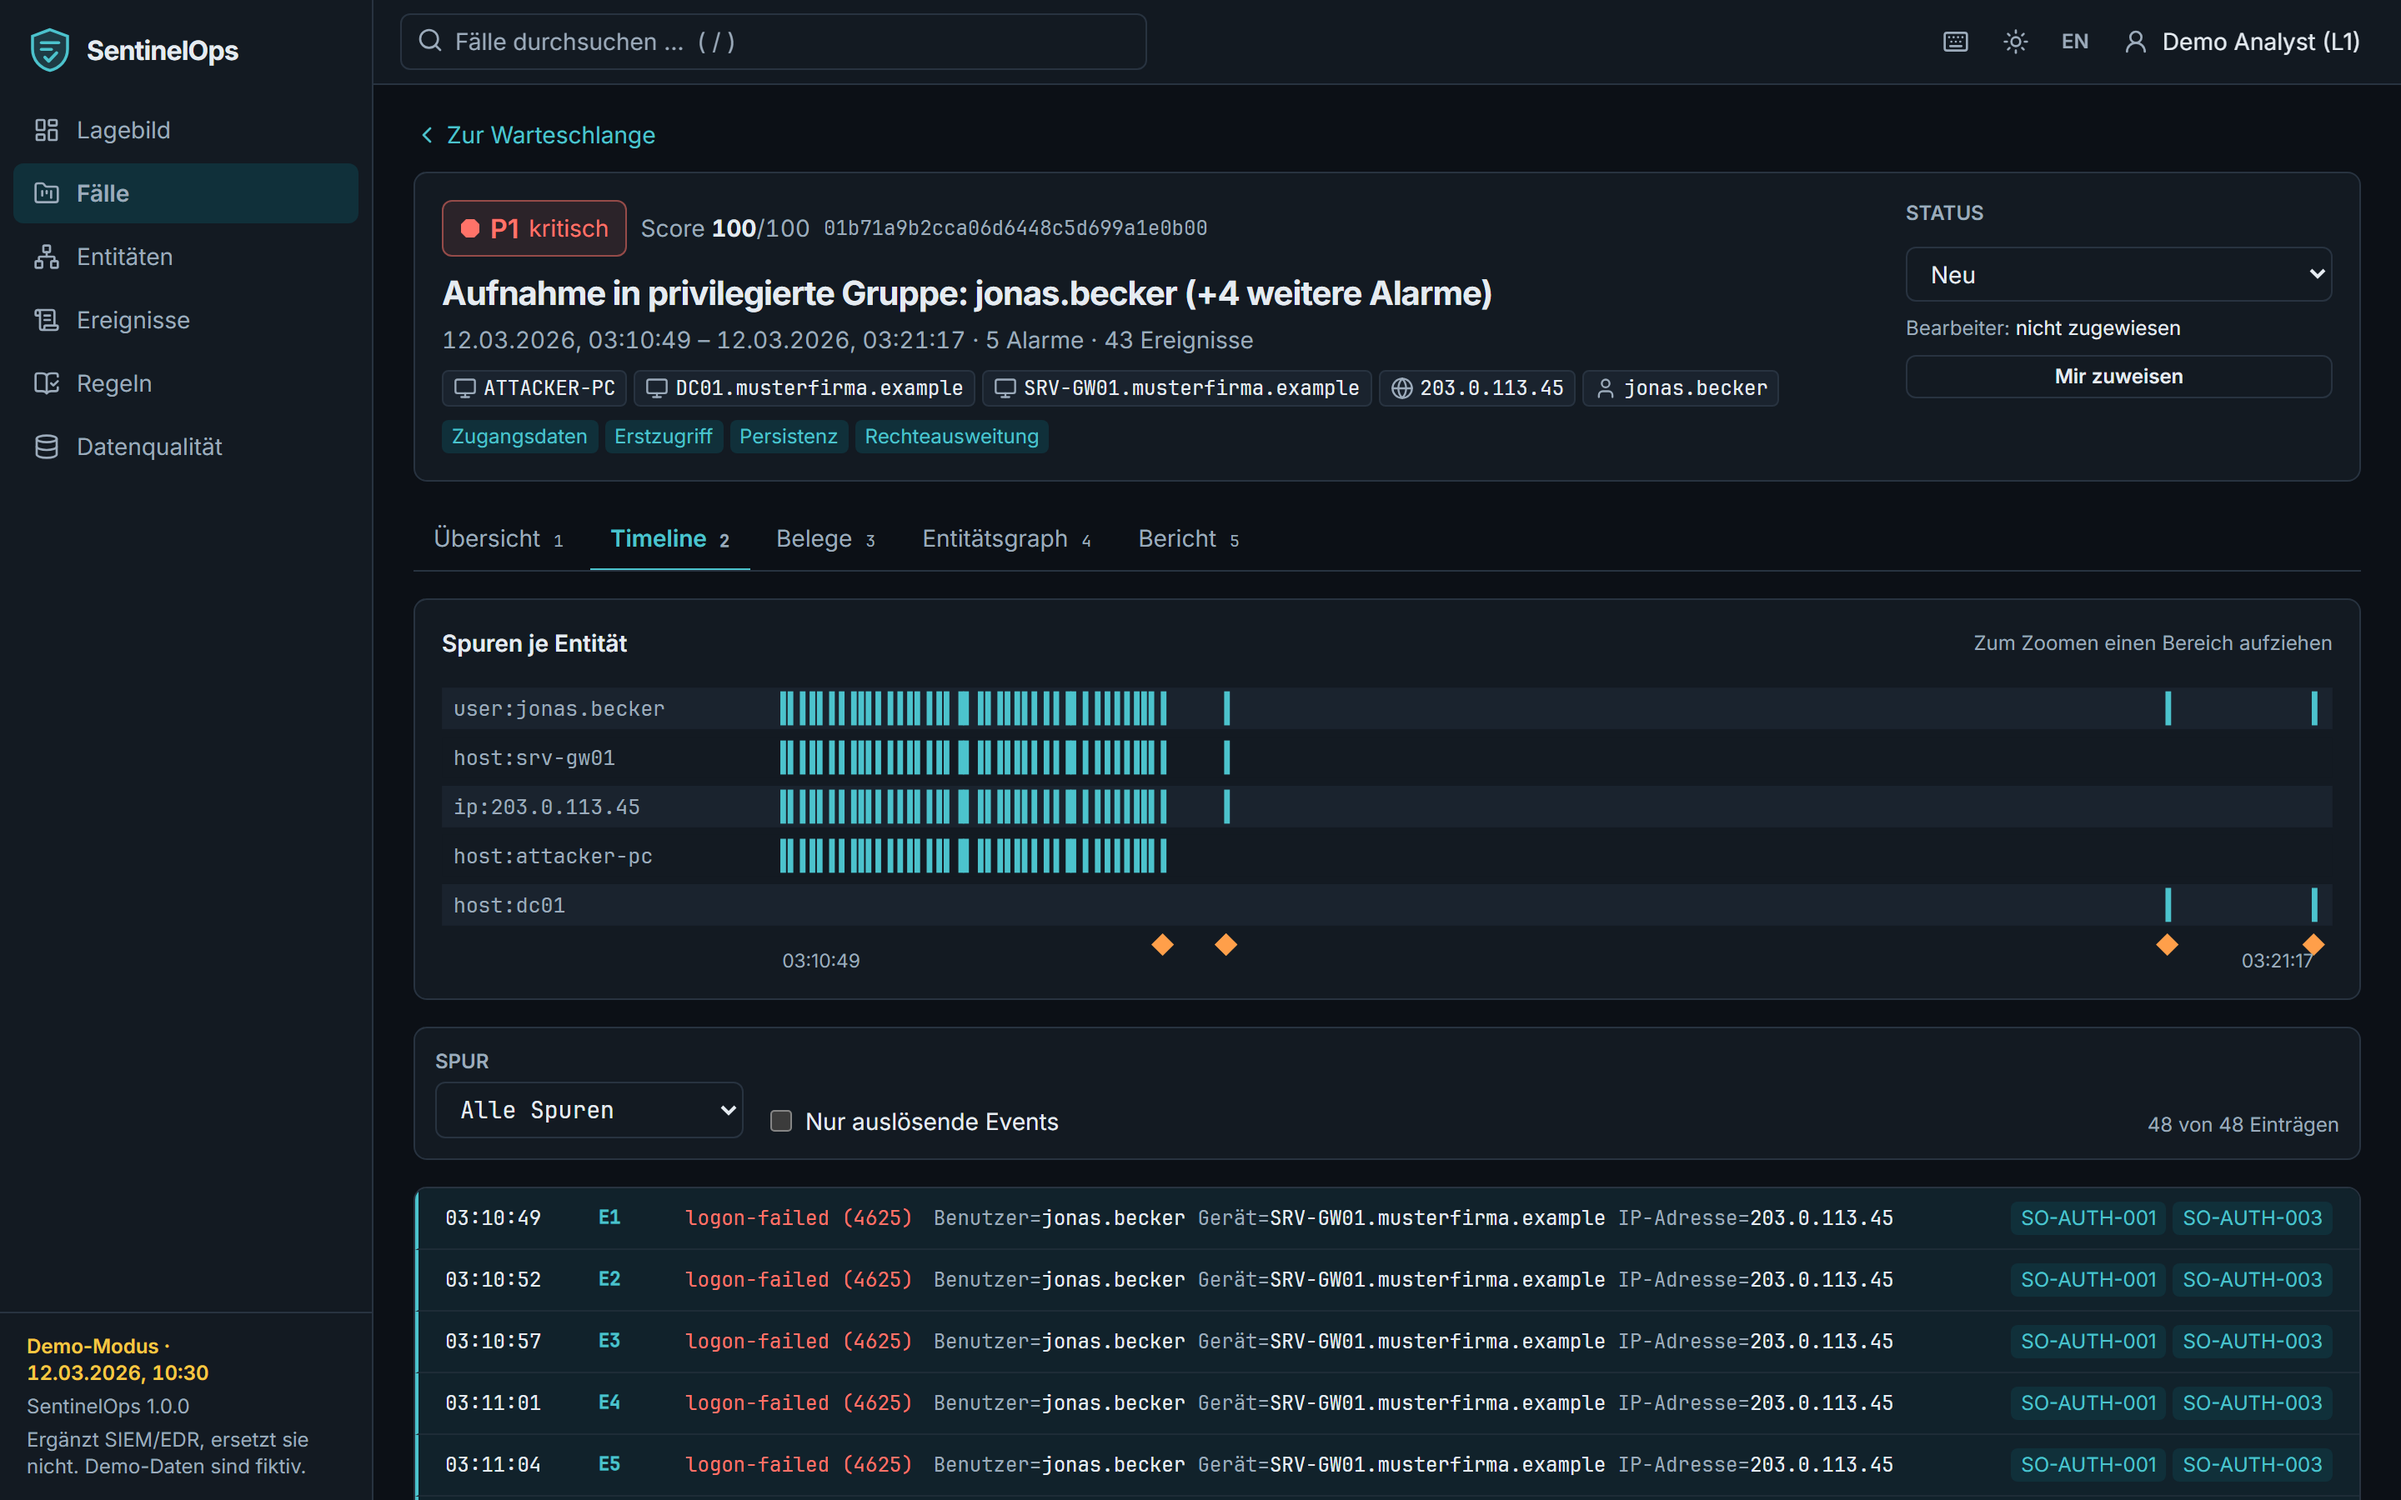
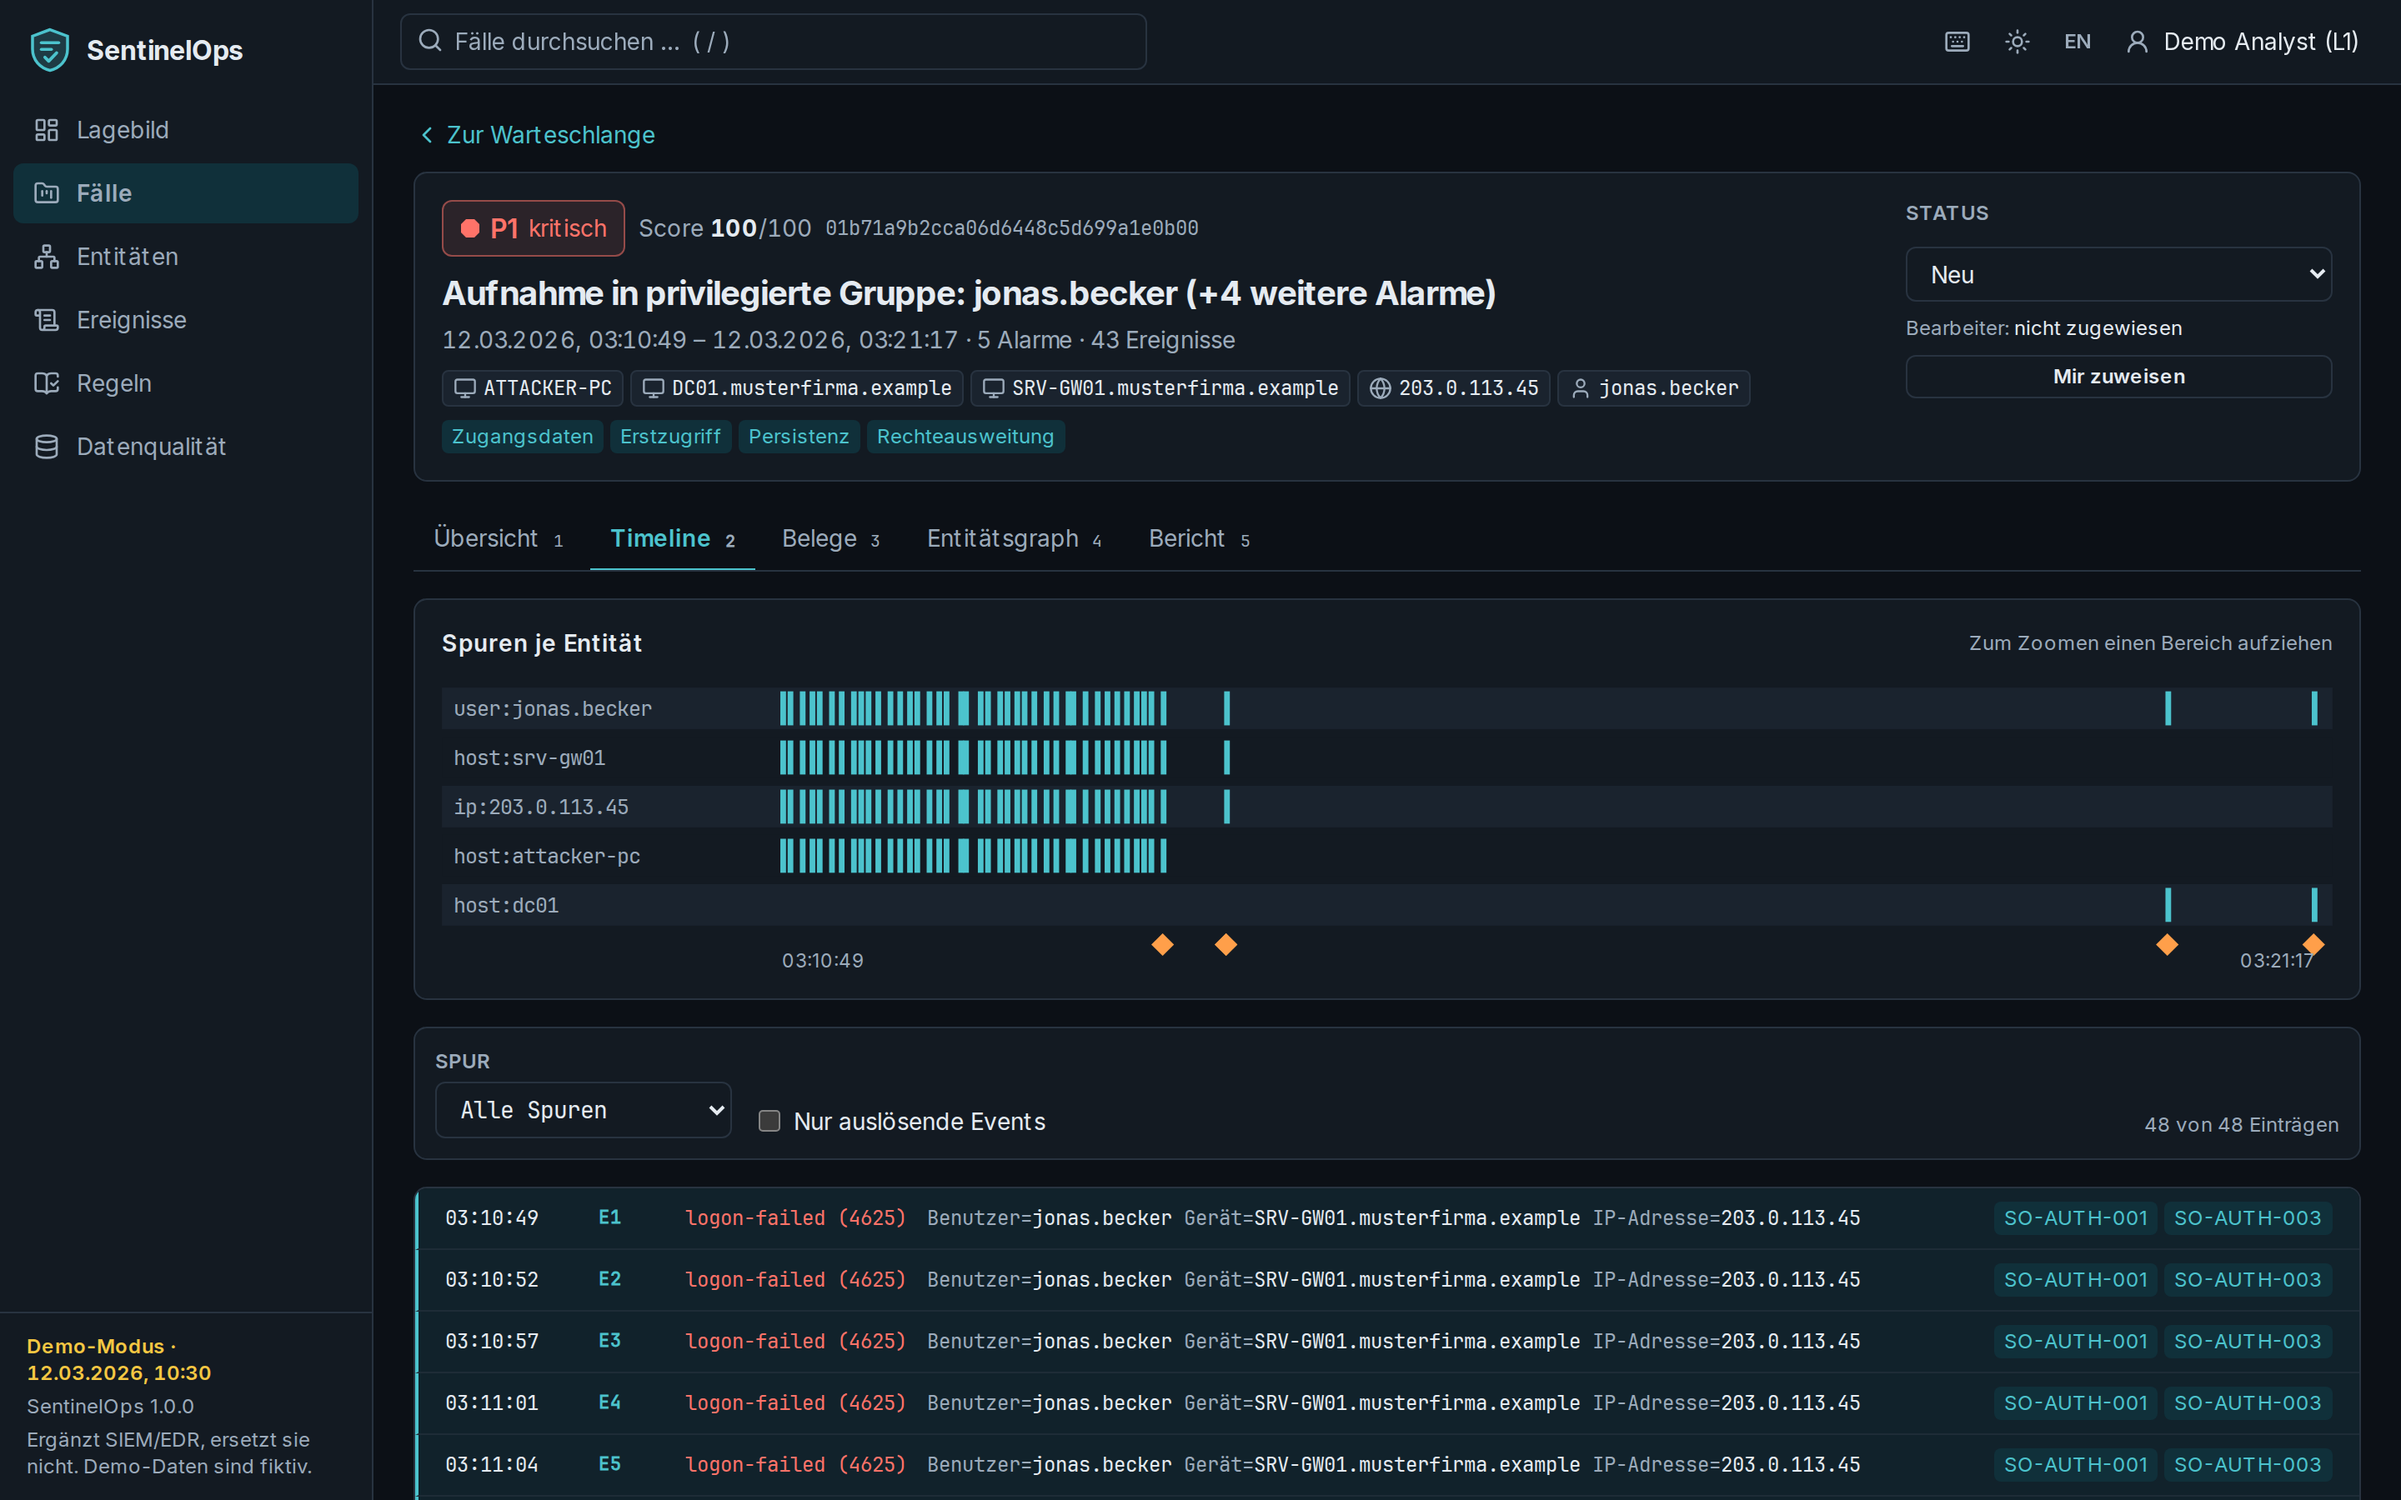
docs(images): render screenshots on Linux, the CI reference platform

diff --git a/CONTRIBUTING.md b/CONTRIBUTING.md
@@ -93,7 +93,11 @@ und eine befristete, begründete Ausnahme vorschlagen (Genehmigung durch L2).
 
 Alle Texte stehen in `frontend/src/i18n/de.json` und `en.json`; `pnpm --dir frontend i18n:check`
 prüft Vollständigkeit, ESLint verbietet hart kodierte Texte. Logdaten werden immer als Text
-gerendert (kein `dangerouslySetInnerHTML`). Nach UI-Änderungen `make screenshots` ausführen.
+gerendert (kein `dangerouslySetInnerHTML`). Nach UI-Änderungen die Bilder neu erzeugen: Referenz
+ist **Linux** (die CI vergleicht pixelgenau, Schriften werden unter Windows/macOS anders geglättet).
+Unter Linux genügt `make screenshots`; auf anderen Systemen den PR öffnen – der Workflow
+„Screenshots“ lädt die neu gerenderten Bilder als Artefakt `screenshots` hoch, das man nach
+`docs/images/` kopiert.
 
 ## Lizenz
 
